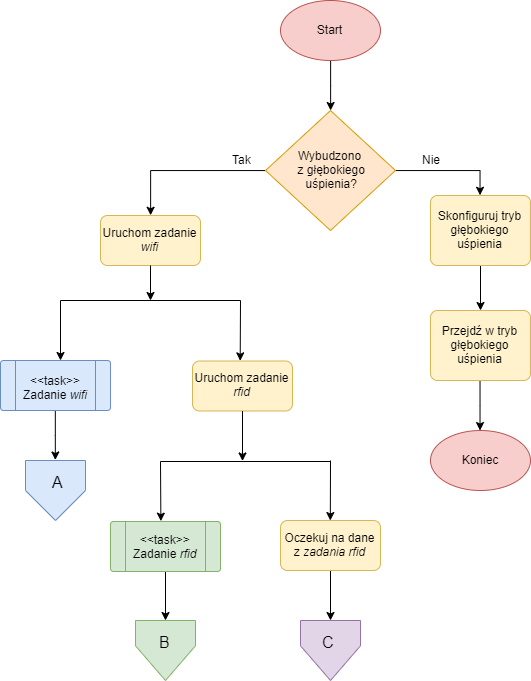
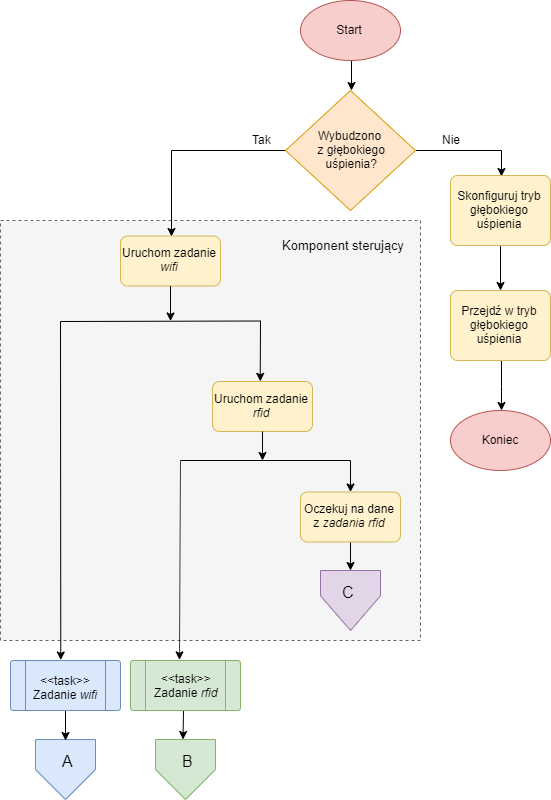
Pisanko dalej

diff --git a/docs/chapters/controller.tex b/docs/chapters/controller.tex
@@ -22,8 +22,8 @@
             Czujnik ruchu posiada krytyczne znaczenie w układzie zamka. Jako jedyny z podzespołów musi być zasilany przez cały czas pracy układu. Ze względu na wymaganie wykorzystania zasilania bateryjnego w układzie istotną cechą jest jak najniższy pobór mocy w stanie spoczynku. Wybranym rozwiązaniem jest czujnik PIR (ang. \textit{Passive Infrared}, pasywny czujnik podczerwieni), model HC-SR501. Wykrycie obiektu sygnalizowane jest stanem wysokim na cyfrowym wyjściu. Czujnik HC-SR501 wyposażony jest w dwa potencjometry umożliwiające regulację czasu trwania stanu wysokiego po wykryciu obiektu oraz czułości czujnika. Układ posiada także zworkę, za pomocą której można wybrać jeden z dwóch możliwych trybów:
 
             \begin{itemize}
-                \item Tryb \textit{repeatable} - po wykryciu obiektu stan wysoki utrzymywany jest przez określony przez potencjometr czas,
-                \item Tryb \textit{non-repeatable} - stan wysoki po wykryciu obiektu utrzymywany jest przez cały czas występowania ruchu. Po zatrzymaniu ruchu stan wysoki utrzymywany jest przez określony przez potencjometr czas.
+                \item Tryb \textit{retriggering} - po wykryciu obiektu stan wysoki utrzymywany jest przez określony przez potencjometr czas,
+                \item Tryb \textit{non-retriggering} - stan wysoki po wykryciu obiektu utrzymywany jest przez cały czas występowania ruchu. Po zatrzymaniu ruchu stan wysoki utrzymywany jest przez określony przez potencjometr czas.
             \end{itemize}
 
             Dzięki temu możliwe jest dobranie parametrów czujnika w taki sposób, aby użytkownik był wykrywany w odpowiednim momencie, co przekłada się na bardziej optymalne działanie układu.
@@ -55,24 +55,48 @@
 
         \subsection{Komponenty}
 
-            ESP-IDF umożliwia podział aplikacji na komponenty oraz ich łatwą konfigurację w procesie kompilacji za pomocą tekstowego menu. Jak wyjaśnia \cite{esp-idf-build-system}, komponenty to modularne i samodzielne fragmenty kodu kompilowane do bibliotek statycznych i linkowane do aplikacji. Niektóre z nich są dostarczane przez platformę ESP-IDF. Istnieje też możliwość tworzenia własnych komponentów.
+            ESP-IDF umożliwia podział aplikacji na komponenty oraz ich łatwą konfigurację w procesie kompilacji za pomocą tekstowego menu (tzw. \textit{menuconfig}. Jak wyjaśnia \cite{esp-idf-build-system}, komponenty to modularne i samodzielne fragmenty kodu kompilowane do bibliotek statycznych i linkowane do aplikacji. Niektóre z nich są dostarczane przez platformę ESP-IDF. Istnieje też możliwość tworzenia własnych komponentów.
 
             Kod źródłowy oprogramowania mikrokontrolera został podzielony na następujące komponenty:
 
             \begin{enumerate}
-                \item Komponent główny (\textit{main}),
-                \item Komponent RFID,
-                \item Komponent WiFi,
-                \item Komponent sterujący (\textit{flow-controller}).
+                \item Komponent główny (\textit{main})
+
+                    Odpowiedzialny za inicjalizację niezbędnych modułów i przejście w tryb głębokiego uśpienia w przypadku standardowego uruchomienia mikrokontrolera. W przypadku zdarzenia wybudzenia z głębokiego uśpienia odpowiedzialny dodatkowo za wywołanie kodu należącego do komponentu sterującego. Składa się z pojedynczego pliku źródłowego \textit{main.c}.
+
+                \item Komponent RFID
+
+                    Odpowiedzialny za komunikację z czytnikiem RFID. Składa się z zewnętrznej biblioteki obsługującej czytnik MFRC522 (patrz \ref{sub:rfid_lib}), pliku ze zbiorem funkcji umożliwiających jej łatwą obsługę oraz pliku z funkcjami związanymi z zadaniem \textit{rfid} (patrz \ref{sub:tasks}).
+
+                \item Komponent WiFi
+
+                    Odpowiedzialny za nawiązanie połączenia z siecią bezprzewodową i serwerem oraz przeprowadzenie procesu wymiany informacji w celu autoryzacji identyfikatora. Składa się z biblioteki obsługującej komunikację za pomocą \textit{socket'ów}, biblioteki obsługującej komunikację wspierającą TLS, bazującej na bibliotece \textit{mbed TLS}, kilku plików z funkcjami pomocniczymi oraz pliku z funkcjami związanymi z zadaniem \textit{wifi}. To, czy komunikacja z serwerem odbywać się będzie z wykorzystaniem TLS, definiowane jest przez opcję TLS\_ENABLED zawartą w opcjach \textit{menuconfig} komponentu WiFi.
+
+                \item Komponent GPIO
+
+                    Odpowiedzialny za obsługę komunikacji za pomocą GPIO w celu kontroli zasilania czytnika MFRC522. Składa się z pojedynczego pliku zawierającego proste funkcje umożliwiające ustawianie żądanych stanów na wyjściach.
+
+                \item Komponent sterujący (\textit{flow-controller})
+
+                    Odpowiedzialny za wykonanie i nadzór nad przepływem sterowania od momentu wybudzenia z głębokiego uśpienia aż do zakończenia procesu komunikacji z serwerem. Składa się z pliku zawierającego funkcję obsługującą cały proces oraz pliku definiującego mechanizm synchronizacji zadań (patrz \ref{sub:tasks}).
+
             \end{enumerate}
+
+            Szczegółowy opis struktury kodu umieszczono w dodatku \ref{app:app1}.
 
             \textbf{Napisac ktore rzeczy sa konfigurowalne przez menuconfig}
 
         \subsection{Współbieżność}
+        \label{sub:tasks}
 
             Jak opisuje \cite{esp-idf-freertos-smp-changes}, oryginalny system FreeRTOS został zaprojektowany z myślą o przetwarzaniu za pomocą jednego rdzenia. ESP32 posiada jednak dwa rdzenie o wspólnej pamięci, co pozwala na przemienne wykonywanie zadań na obu rdzeniach. Koncepcja zadań (ang. \textit{tasks}) istniejąca w oryginalnym FreeRTOS w ESP-IDF została zmodyfikowana na potrzeby wsparcia mikrokontrolera o dwóch rdzeniach oraz SMP (ang. \textit{symmetric multiprocessing}, symetryczne przetwarzanie wieloprocesorowe). Każde z zadań ma określony priorytet, na podstawie którego algorytm planowania ustala kolejność wykonywania. Dzieje się to indywidualnie dla każdego rdzenia, lecz lista zadań gotowych do wykonania jest pomiędzy nimi współdzielona.
 
-            Aby maksymalnie wykorzystać możliwości platformy ESP-IDF w kwestii współbieżności jednocześnie unikając nadmiernego skompilowania kodu, zdecydowano się na wykorzystanie w ramach aplikacji dwóch zadań. Należy nadmienić, że mikrokontroler przez większą część czasu wykonuje operacje, których zrównoleglenie nie przyniosłoby korzyści. Jedyną sytuacją, w której warto zastosować przetwarzanie współbieżne jest nawiązywanie połączenia z serwerem oraz odczyt danych z czytnika RFID. Obie czynności mogą okazać się czasochłonne. W aplikacji jednowątkowej, odczyt danych z czytnika RFID musiałby zakończyć się przed rozpoczęciem nawiązywania połączenia, lub odwrotnie. Jeśli zastosujemy zapewniany przez ESP-IDF mechanizm zadań, możemy wykonywać obie operacje jednocześnie.
+            Aby maksymalnie wykorzystać możliwości platformy ESP-IDF w kwestii współbieżności jednocześnie unikając nadmiernego skompilowania kodu, zdecydowano się na wykorzystanie w ramach aplikacji dwóch zadań. Należy nadmienić, że mikrokontroler przez większą część czasu wykonuje operacje, których zrównoleglenie nie przyniosłoby korzyści. Jedyną sytuacją, w której warto zastosować przetwarzanie współbieżne jest nawiązywanie połączenia z serwerem oraz odczyt danych z czytnika RFID. Obie czynności mogą okazać się czasochłonne. W aplikacji jednowątkowej, odczyt danych z czytnika RFID musiałby zakończyć się przed rozpoczęciem nawiązywania połączenia, lub odwrotnie. Jeśli zastosujemy zapewniany przez ESP-IDF mechanizm zadań, możemy wykonywać obie operacje jednocześnie. Zdefiniowano zatem następujące zadania:
+
+            \begin{enumerate}
+                \item Zadanie \textit{wifi},
+                \item Zadanie \textit{rfid}.
+            \end{enumerate}
 
             Do synchronizacji zadań wykorzystany został mechanizm tzw. \textit{event group} (grupy zdarzeń) dostarczany przez system FreeRTOS. Zakłada on wykorzystanie przez współpracujące zadania współdzielonej grupy zdarzeń, składającej się z zestawu flag, oraz udostępnia funkcje do operowania na niej. Możliwe operacje to ustawianie w stan wysoki lub niski danej flagi oraz oczekiwanie na stan wysoki flagi. Korzystny z perspektywy synchronizacji wątków jest fakt, że oczekiwanie na dane zdarzenie blokuje aktualnie wykonywane zadanie, umożliwiając oddanie sterowania innym oczekującym zadaniom.
 
@@ -83,19 +107,24 @@
             ESP32 oferuje efektywną i elastyczną technologię zarządzania energią. Dokument ~\cite{esp32-ds} wymienia pięć dostępnych stanów energetycznych:
 
             \begin{enumerate}
-                \item \textit{Active mode}
+                \item Tryb aktywny (\textit{Active mode})
+
                     Aktywne CPU wraz z układem radiowym.
 
-                \item \textit{Modem-sleep mode}
+                \item Tryb z uśpionym modemem (\textit{Modem-sleep mode})
+
                     Aktywne CPU, układ radiowy wyłączony.
                 
-                \item \textit{Light-sleep mode}
+                \item Tryb lekkiego uśpienia (\textit{Light-sleep mode})
+
                     Uśpione CPU. Pamięć i peryferia RTC (ang. \textit{Real-Time Clock}, zegar czasu rzeczywistego) wraz z koprocesorem ULP (ang. \textit{Ultra Low Power co-processor}) są aktywne. Jakiekolwiek zdarzenia wybudzające doprowadzą do wybudzenia układu.
 
-                \item \textit{Deep-sleep mode}
+                \item Tryb głębokiego uśpienia (\textit{Deep-sleep mode})
+
                     Tylko pamięć i peryferia RTC pozostają zasilone. Dane dotyczące połączeń WiFi i Bluetooth zostają przechowane w pamięci RTC. Opcjonalnie dostępny jest koprocesor ULP.
 
-                \item \textit{Hibernation mode}
+                \item Tryb hibernacji (\textit{Hibernation mode})
+
                     Wewnętrzny rezonator kwarcowy wraz z koprocesorem ULP zostają wyłączone. Również pamięć RTC jest wyłączona. Wybudzenie możliwe jest tylko poprzez timer RTC lub wejścia RTC GPIO.
 
             \end{enumerate}
@@ -105,14 +134,13 @@
             Z punktu widzenia wymagań dotyczących poboru energii niezwykle przydatnym trybem jest tryb głębokiego uśpienia (ang. \textit{deep-sleep mode}). Dzięki jego wykorzystaniu możliwe jest przebywanie mikrokontrolera w trybie niskiego zużycia energii przez większą część czasu. Ze względu na cyfrowy charakter wyjścia czujnika ruchu, jako sposób wybudzenia mikrokontrolera skonfigurowano tryb EXT0 (ang. \textit{External Wakeup 0}, wybudzenie zewnętrzne) umożliwiający wykorzystanie modułu RTC IO (ang. \textit{Real-Time Clock Input Output}) w celu zainicjowania wybudzenia. Inne możliwe źródła wybudzenia to m.in. zegar RTC (ang. \textit{timer}) czy przerwanie wbudowanego czujnika dotykowego (ang. \textit{touch pad}). Konfiguracja trybu wybudzania odbywa się programowo.
 
         \subsection{Biblioteka do zarządzania czytnikiem RFID}
+        \label{sub:rfid_lib}
 
             Do zarządzania czytnikiem MFRC522 wykorzystano zewnętrzną bibliotekę\footnote{Alija Bobija, \textit{C library for interfacing ESP32 with MFRC522 RFID card reader}, \url{https://github.com/abobija/esp-idf-rc522} (rewizja 557af67)}.
 
-             % Inicjalizacja rozpoczyna się od inicjalizacji interfejsu SPI na określonych z góry wyjściach mikrokontrolera. Następnie rozpoczyna się cykliczne odpytywanie czytnika rc522 za pomocą wspomnianego interfejsu~\cite{esp-idf-rc522}. W przypadku sygnalizacji wykrycia karty przez czytnik, pozyskiwany jest numer karty, odpytywanie zostaje zakończone a numer karty zostaje przekazany do komponentu sterującego.
-
         \subsection{Przepływ sterowania}
 
-            Przepływ sterowania w oprogramowaniu mikrokontrolera ukazują rysunki \ref{fig:flowchart1} i \ref{fig:flowchart4}. Na rysunkach \ref{fig:flowchart2} i \ref{fig:flowchart3} przedstawiono przepływ sterowania w zadaniach \textit{wifi} i \textit{rfid}. 
+            Przepływ sterowania w oprogramowaniu mikrokontrolera ukazują rysunki \ref{fig:flowchart1} i \ref{fig:flowchart4}. Na rysunkach \ref{fig:flowchart2} i \ref{fig:flowchart3} przedstawiono przepływ sterowania w zadaniach \textit{wifi} i \textit{rfid}.
 
             \begin{figure}[]
                 \centering

diff --git a/docs/chapters/server.tex b/docs/chapters/server.tex
@@ -1,4 +1,38 @@
 \chapter{Serwer}
 \label{chap:server}
 
-    Niniejszy rozdział przedstawia zagadnienia związane z procesem implementacji części serwerowej systemu.
+    Niniejszy rozdział przedstawia zagadnienia związane z procesem implementacji części serwerowej systemu. 
+
+    \section{Podsystem autoryzacji}
+
+
+    \section{Podsystem zarządzania}
+
+    	Założeniem tej części procesu implementacyjnego nie było stworzenie skomplikowanej aplikacji umożliwiającej zaawansowaną konfigurację systemu, lecz w pełni funkcjonalnego prototypu na potrzeby demonstracyjne.
+
+    	Podsystem został podzielony na dwie współpracujące ze sobą aplikacje. Warstwową budowę podsystemu zarządzania przedstawia rysunek \ref{fig:mngmt_subs_layers}.
+
+    	\begin{itemize}
+    		\item Aplikacja GUI
+
+    			Odpowiada za prezentację danych użytkownikowi, tłumaczenie jego akcji na żądania HTTP i wysyłanie ich do aplikacji API.
+
+    		\item Aplikacja API
+
+    			Udostępnia zasoby dla aplikacji GUI. Odpowiada za odbieranie od niej żądań HTTP, przetwarzanie ich i zwracanie stosownych odpowiedzi. Zawiera większą część logiki biznesowej oraz logikę zarządzania i dostępu do danych.
+    	\end{itemize}
+
+        \begin{figure}[]
+            \centering
+            \includegraphics[width=\textwidth]{chapters/images/mngmt_subsystem_layers.png}
+            \caption{Warstwowa budowa podsystemu zarządzania}
+            \label{fig:mngmt_subs_layers}
+        \end{figure}
+
+       	Istotnym czynnikiem motywującym wybór technologii aplikacji podsystemu zarządzania była prostota oraz łatwość implementacji oraz rozwoju funkcjonalnej i estetycznej aplikacji demonstracyjnej zarówno po stronie przeglądarki jak i serwera. Ważną cechą była także łatwość integracji rozwiązania z bazą danych. 
+
+		Do implementacji aplikacji API wybrano język Python z framework'iem Flask. Ważną cechą języka Python jest wbudowane wsparcie dla bazy danych SQLite. SQLite jest biblioteką napisaną w języku C zawierającą implementację niewielkiego silnika bazy danych SQL. Biblioteka języka Python obsługująca silnik umożliwia operowanie na bazach danych umieszczanych bezpośrednio na dysku, co czyni ją rozwiązaniem przydatnym w procesie prototypowania. Framework Flask jest prostą platformą do tworzenia aplikacji internetowych. Dodatkowo zawiera on deweloperski serwer WWW, co znacznie upraszcza proces wytwarzania i testowania aplikacji.
+
+		Do implementacji aplikacji GUI zdecydowano się na framework Angular CLI.
+
+		Wymienione technologie są wystarczające na potrzeby aplikacji prototypowych, jednak w przypadku chęci rozwijania systemu dla środowisk produkcyjnych konieczne mogłoby okazać się przemyślenie zestawu technologii w celu optymalizacji wydajności oraz zwiększenia bezpieczeństwa systemu.

diff --git a/docs/chapters/high-level-architecture.tex b/docs/chapters/high-level-architecture.tex
@@ -166,14 +166,24 @@
                     \hline \cellcolor[gray]{0.8} Opis         & Długość czasu pracy układu zamka na baterii powinna wynosić minimum 1 rok \\
                     \hline
                 \end{tabular}
-                \label{tbl:xxrq1}    
+                \label{tbl:xxrq1}
+                \vspace{10mm}       
             \end{subtable}
+        \quad%
+            \begin{subtable}[c]{\textwidth}
+                \centering
+                \begin{tabular}{|p{2cm}|p{12cm}|}
+                    \hline XXRQ\_2      & \textbf{Czas odpowiedzi układu zamka nie dłuższy niż 3 sekundy}  \\
+                    \hline \cellcolor[gray]{0.8} Opis         & Czas odpowiedzi układu zamka od momentu przyłożenia identyfikatora do momentu wysłania sygnału otwierającego zamek przez układ sterowania zamkiem powinien być nie dłuższy niż 3 sekundy. \\
+                    \hline
+                \end{tabular}
+                \label{tbl:xxrq2}    
+            \end{subtable}
+
             \label{tbl:xxrq}
         \end{table}
 
         \textbf{TBD - dodać jakieś wymaganie dotyczące bezpieczeństwa}
-
-        \textbf{TBD - dodać wymaganie dotyczące czasu odpowiedzi zamka}
 
         \section{Komponenty}
 
@@ -339,7 +349,7 @@
 
             \begin{figure}[h!]
                 \centering
-                \includegraphics[width=0.7\textwidth]{chapters/images/mngmt_subsystem.png}
+                \includegraphics[width=\textwidth]{chapters/images/mngmt_subsystem.png}
                 \caption{Budowa podsystemu zarządzającego}
                 \label{fig:mngmt_subsystem}
             \end{figure}

diff --git a/docs/appendices/appendix1.tex b/docs/appendices/appendix1.tex
@@ -1,3 +1,4 @@
 \chapter{Uruchomienie projektu}
+\label{app:app1}
 
 \textbf{TBD}
